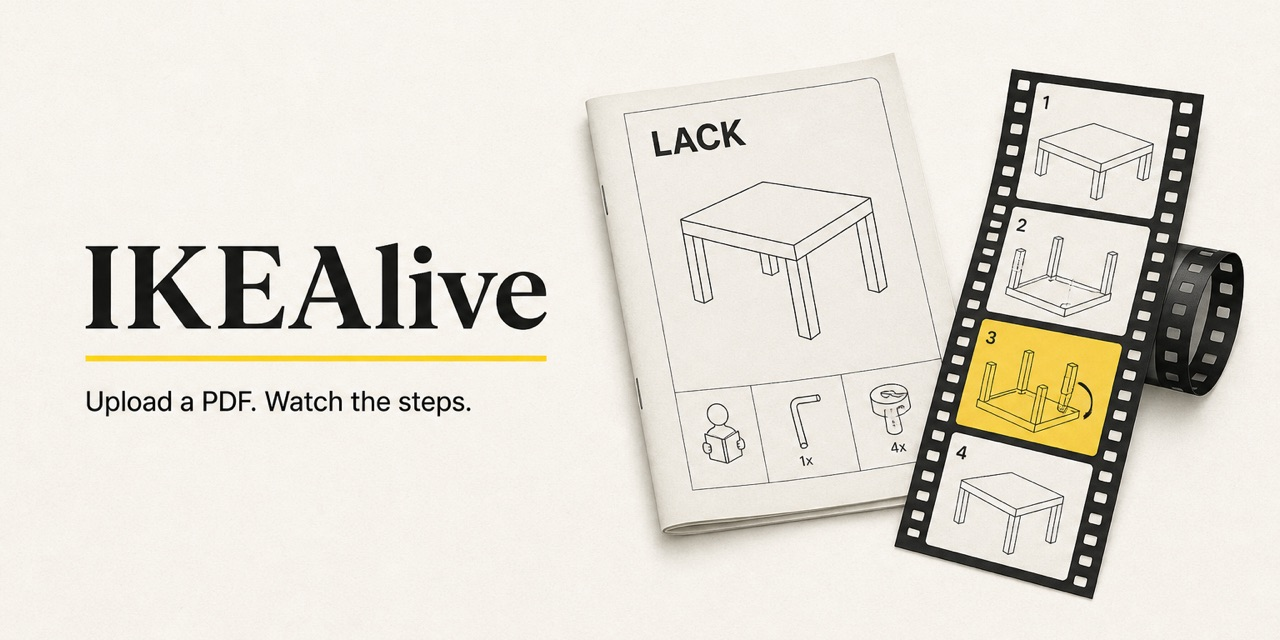
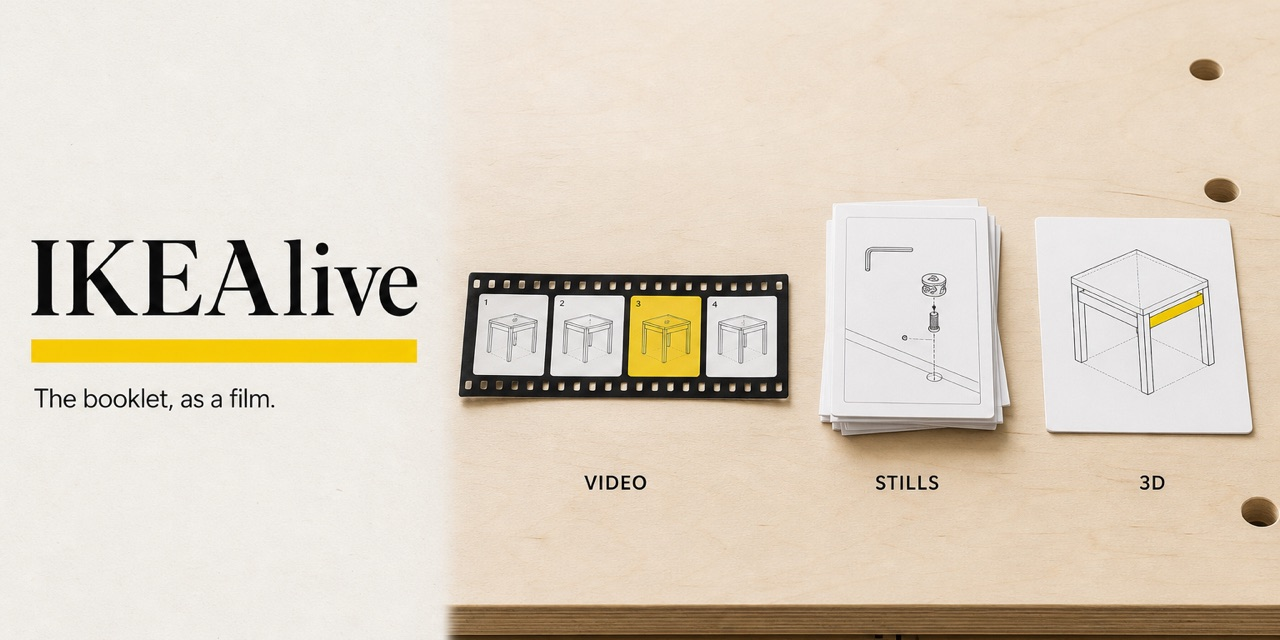
docs: rewrite README as a workshop landing page
Replace the template header with IKEAlive's own voice, three-lens stills, and a 1280×640 social card so the repo reads like the booklet-as-film product.

diff --git a/README.md b/README.md
@@ -1,26 +1,64 @@
-<p align="center">
-  <img src="docs/social-preview.jpg" alt="IKEAlive — upload an IKEA PDF, watch a reel of steps" width="1280" />
-</p>
+<div align="center">
+
+<img src="docs/social-preview.jpg" alt="IKEAlive — the booklet, as a film. Video, stills, or 3D." width="1280" />
 
 # IKEAlive
 
-**Upload an IKEA PDF. Watch a reel of the steps.**
+### The booklet, as a film.
 
-IKEAFY is the repo; IKEAlive is the product — a consumer assembly studio that turns official IKEA plates into a film you follow one step at a time.
+Upload an IKEA PDF. Pick **video**, **stills**, or **3D**. Watch the steps.
 
-[![Node.js](https://img.shields.io/badge/node-%3E%3D20-339933?logo=nodedotjs&logoColor=white)](https://nodejs.org)
-[![GitHub stars](https://img.shields.io/github/stars/helloso623/IKEAlive)](https://github.com/helloso623/IKEAlive/stargazers)
-[![GitHub issues](https://img.shields.io/github/issues/helloso623/IKEAlive)](https://github.com/helloso623/IKEAlive/issues)
+IKEAFY is the repo. IKEAlive is the workshop.
 
-## What it is
+[![Node.js](https://img.shields.io/badge/node-%3E%3D20-111111?style=for-the-badge&logo=nodedotjs&logoColor=FFDA1A)](https://nodejs.org)
+[![GitHub stars](https://img.shields.io/github/stars/helloso623/IKEAlive?style=for-the-badge)](https://github.com/helloso623/IKEAlive/stargazers)
+[![GitHub issues](https://img.shields.io/github/issues/helloso623/IKEAlive?style=for-the-badge)](https://github.com/helloso623/IKEAlive/issues)
 
-Drop an instructions PDF, or type a product name so Tavily can fetch the official IKEA PDF (catalog stand-in without `TAVILY_API_KEY`). The studio turns the plates into a reel you watch one step at a time. Official LACK is a secondary locked sheet. The right rail holds inventory, troubles, identify, and small parts. Watch chat has a Mic that uses the Web Speech API and `/api/agents/chat` so spoken commands can start the reel, change step, or request a spare.
+[Open the workshop](#open-the-workshop) ·
+[Three ways to watch](#three-ways-to-watch) ·
+[Keys on the bench](#keys-on-the-bench) ·
+[Floor plan](#floor-plan)
 
-Lab is one workspace with three spaces: **Bench** (3D edit), **House** (photo + measurements in the same rails, not a separate product), and **AR** (the `#ar-photo` room-camera overlay). Click **Lab** to open it (IKEAlive modes hide); click **Lab** again to return. IKEAlive (upload / watch) stays the default tab.
+</div>
 
-## Run
+<p align="center">
+  <img src="docs/workshop-still.jpg" alt="Upload the PDF, then pick video, stills, or 3D instructions" width="1280" />
+</p>
 
-Requires [Node.js](https://nodejs.org) 20 or newer.
+---
+
+## The booklet, as a film
+
+The hex key is already in the bag. What was missing was watching someone do it.
+
+IKEA already drew the plates. IKEAlive does not rewrite them. It reads the PDF (or looks the official booklet up by product name), then you choose a lens:
+
+```
+   ①  drop the PDF          ②  pick a lens           ③  watch
+  ┌───────────────┐        ┌───────────────┐        ┌───────────────┐
+  │  the plates   │   →    │  video        │   →    │  step n       │
+  │  (or a name)  │        │  stills       │        │  one at a time│
+  └───────────────┘        │  3D           │        └───────────────┘
+                           └───────────────┘
+```
+
+Type a product name and Tavily can fetch the official IKEA PDF — catalog stand-in without `TAVILY_API_KEY`. Official **LACK** is a secondary locked sheet. The right rail is the kit: inventory, troubles, identify, small parts. Watch chat has a Mic (Web Speech API + `/api/agents/chat`) so spoken commands can start the reel, change step, or request a spare.
+
+## Three ways to watch
+
+Same furniture. Different lens. Pick before you hit **Get the Reel**.
+
+| | What you watch | On the machine |
+| --- | --- | --- |
+| **Video** | A step film | Needs `FAL_KEY` (fal.ai). |
+| **Stills** | Instruction plates, cheaper than a reel | Needs `FAL_KEY`. |
+| **3D** | The workshop engine — pieces in space | Local. No fal. |
+
+Leave keys empty and the rest of the app stays local. Video and stills are the ones that leave the machine, and only when `FAL_KEY` is set.
+
+## Open the workshop
+
+Requires [Node.js](https://nodejs.org) **20+**. Copy `.env.example` → `.env` if you want keys; leave them blank to stay local. **Do not commit `.env`.**
 
 **Browser**
 
@@ -33,7 +71,7 @@ npm run dev
 - App: `http://localhost:5173`
 - API: `http://localhost:8787`
 
-**Electron** (full workshop in a desktop window — IKEAlive upload/watch, Lab Bench, House):
+**Electron** — full workshop in a desktop window (IKEAlive upload/watch, Lab Bench, House):
 
 ```bash
 npm run electron
@@ -41,21 +79,19 @@ npm run electron
 
 `npm run electron` and `npm run dev:electron` start the same Express + Vite stack as `npm run dev`, then open it in a desktop window. Keep using `npm run dev` if you want the browser instead. After `npm run build`, `electron .` (without `ELECTRON_DEV`) starts Express itself and loads the built client from `http://127.0.0.1:8787`.
 
-## Environment
+## Keys on the bench
 
-Copy `.env.example` to `.env`. Leave values empty to stay fully local. **Never commit `.env` or paste real keys.**
+Names only. Never paste values. `.env` stays out of git.
 
-| Variable | What it enables | Without it |
+| Variable | What it unlocks | Without it |
 | --- | --- | --- |
-| `FAL_KEY` | Step films via fal.ai | Local storyboard |
+| `FAL_KEY` | Video films and still plates via fal.ai | Those two lenses cannot render remotely |
 | `OPENAI_API_KEY` | Lab bench generation (hosted steward) | Built-in local steward |
 | `TAVILY_API_KEY` | Official IKEA PDF lookup and live shop links | Catalog stand-ins |
 
-Optional also: `PORT` (API, default `8787`) and `CLIENT_PORT` (Vite, default `5173`). Model names such as `OPENAI_MODEL_HARD` live in `.env.example`.
+Optional: `PORT` (API, default `8787`), `CLIENT_PORT` (Vite, default `5173`). Model names such as `OPENAI_MODEL_HARD` live in `.env.example`.
 
-`.env` stays out of git. Do not commit keys.
-
-## Folders
+## Floor plan
 
 | Path | What lives here |
 | --- | --- |
@@ -63,8 +99,12 @@ Optional also: `PORT` (API, default `8787`) and `CLIENT_PORT` (Vite, default `51
 | `server/` | Express API |
 | `electron/` | Desktop wrapper |
 | `guides/` | Official building guides |
-| `docs/` | Product notes and the GitHub social preview |
+| `docs/` | Notes, social preview, workshop still |
 | `tests/` | Node test suite |
+
+## The other room
+
+Lab is one workspace with three spaces: **Bench** (3D edit), **House** (photo + measurements in the same rails, not a separate product), and **AR** (the `#ar-photo` room-camera overlay). Click **Lab** to open it (IKEAlive modes hide); click **Lab** again to return. IKEAlive (upload / watch) stays the default tab.
 
 ## License
 
